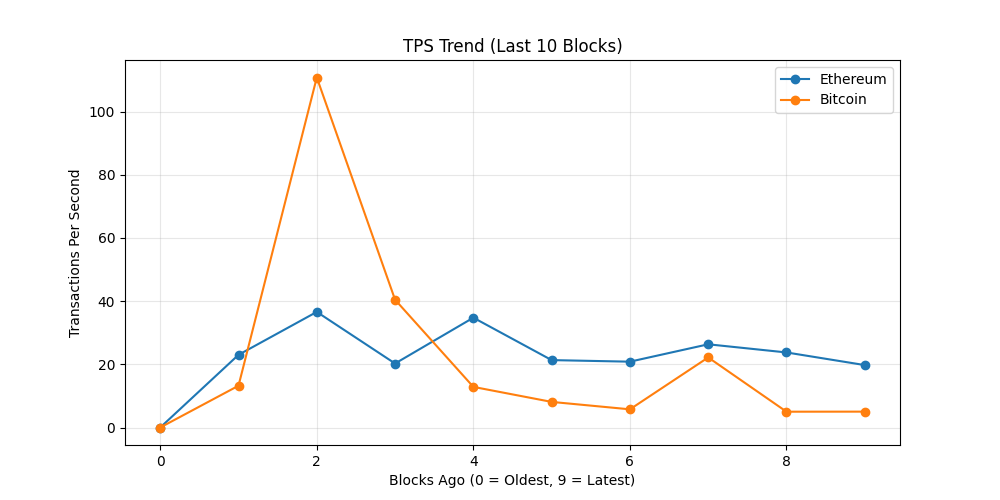
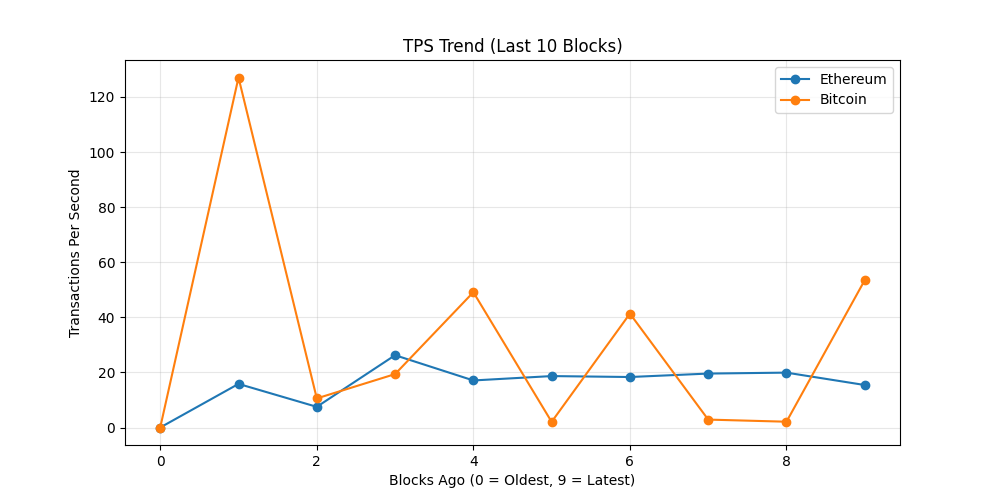
chore: update on-chain dashboard

diff --git a/README.md b/README.md
@@ -19,7 +19,7 @@ The README itself acts as the dashboard and is regenerated automatically on a 6 
 demonstrating a production-style, infrastructure-focused observability workflow rather
 than a traditional UI-driven approach.
 
-_Last updated: 2026-09-29 22:13 UTC_
+_Last updated: 2026-09-30 05:30 UTC_
 
 ## API Usage (GetBlock.io)
 - Calls used: **24**
@@ -27,8 +27,8 @@ _Last updated: 2026-09-29 22:13 UTC_
 ## Network Metrics
 | Chain | Block Height | TX Count | TPS (10 blk avg) | Block Util | Avg Fee |
 |------|-------------|----------|------------------|------------|---------|
-| Ethereum | 26086036 | 237 | 19.75 | 41.22% | 0.2 Gwei |
-| Bitcoin | 969210 | 4288 | 5.02 | 99.79% | N/A |
+| Ethereum | 26088212 | 185 | 15.42 | 59.8% | 0.1 Gwei |
+| Bitcoin | 969264 | 2408 | 53.51 | 99.79% | N/A |
 
 ## Visuals
 ### Transactions Trend
@@ -43,11 +43,8 @@ _Last updated: 2026-09-29 22:13 UTC_
 ## Whale Alerts (latest block)
 - Transaction hashes are truncated for readability.
 - Full hashes are available in `dashboards/metrics.json`
-- Bitcoin | 1064.0 BTC | `577511bb3f0d…`
-- Bitcoin | 407.62 BTC | `1ba059b65268…`
-- Bitcoin | 112.5 BTC | `2989a3c00638…`
-- Bitcoin | 583.1 BTC | `43844daee1c6…`
-- Bitcoin | 2481.07 BTC | `fc55bd377bb9…`
+- Bitcoin | 2481.24 BTC | `ad872e45e1b3…`
+- Bitcoin | 3096.6 BTC | `d573cfc09ef3…`
 
 ## Run locally
 
